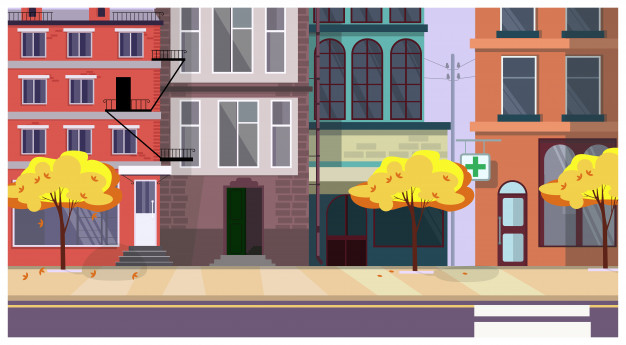
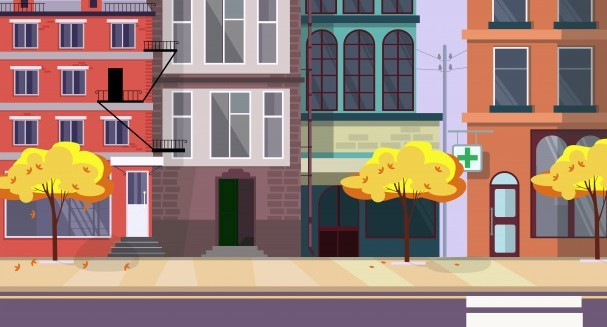
Ajuste de dimenciones en el fondo

diff --git a/Mecanica.js b/Mecanica.js
@@ -37,11 +37,11 @@ function Borrado(){
     canvas.heigth = alto;
 }
 
-var piso = 250;
+var piso = 275;
 var Dino = {y:piso, Vy:0, gravedad:2, salto:25, Vymax:9, saltando: false};
 
 function DibujandoFondo(){
-    context.drawImage(imgFondo,0,0,626,345,0,0,800,400);
+    context.drawImage(imgFondo,0,0,607,317,0,0,800,400);
 }
 
 function dibujadoDino(){
